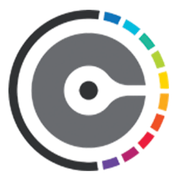
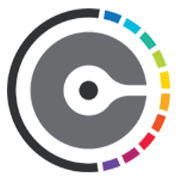
favico

diff --git a/app/templates/base.html b/app/templates/base.html
@@ -35,10 +35,11 @@
         <link rel="stylesheet" type="text/css" href="{% static 'css/app.css' %}">
         <link rel="stylesheet" href="{% static 'css/tailwind.css' %}">
         
-        <link rel="icon" type="image/png" sizes="32x32" href="{% static 'images/favicon-32x32.png' %}">
-        <link rel="icon" type="image/png" sizes="16x16" href="{% static 'images/favicon-16x16.png' %}">
-        <link rel="apple-touch-icon" sizes="180x180" href="{% static 'images/apple-touch-icon.png' %}">
-        <link rel="shortcut icon" href="{% static 'images/favicon.ico' %}">
+        <link rel="icon" type="image/png" href="/https://cooltimedia.com/static/images/favicon.icon/favicon-96x96.png" sizes="96x96" />
+        <link rel="icon" type="image/svg+xml" href="/https://cooltimedia.com/static/images/favicon.icon/favicon.svg" />
+        <link rel="shortcut icon" href="/https://cooltimedia.com/static/images/favicon.icon/favicon.ico" />
+        <link rel="apple-touch-icon" sizes="180x180" href="/https://cooltimedia.com/static/images/favicon.icon/apple-touch-icon.png" />
+        <link rel="manifest" href="/https://cooltimedia.com/static/images/favicon.icon/site.webmanifest" />
 
 	{% block extra_css %}
         {# Override this in templates to add extra stylesheets #}
